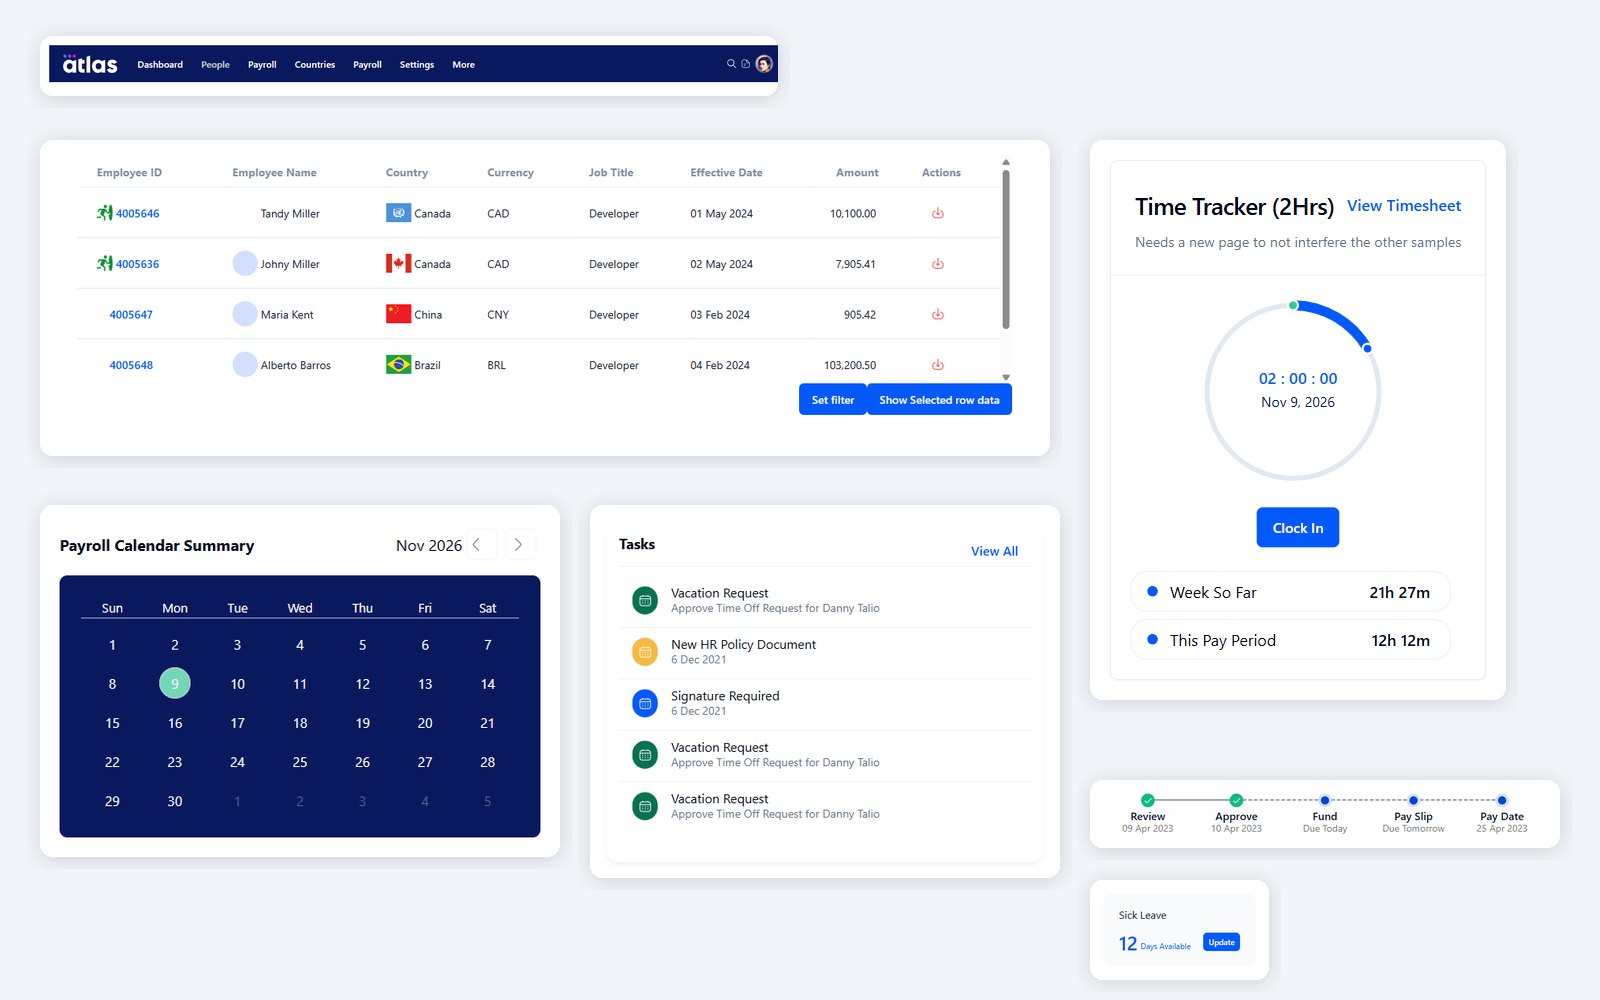
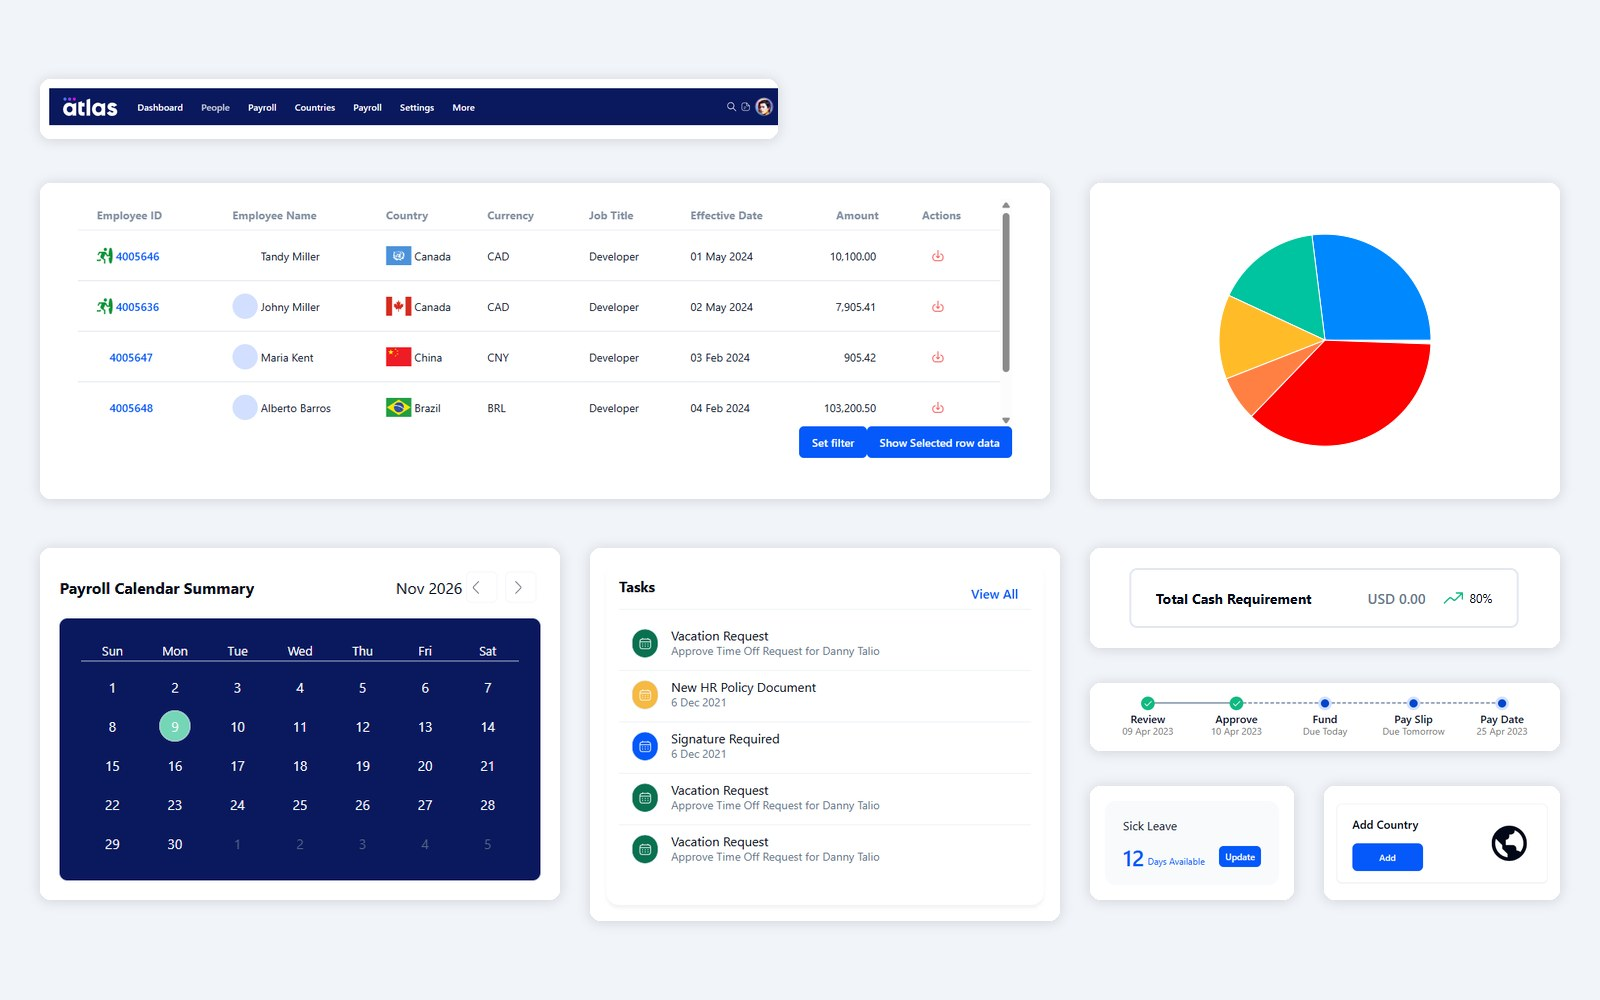
Recompose the Atlas collage without the Storybook note

diff --git a/lib/content.ts b/lib/content.ts
@@ -138,7 +138,7 @@ export const projects: Project[] = [
         src: "/work/atlas-ui-kit.jpg",
         width: 1600,
         height: 1000,
-        alt: "Components from the Atlas UI kit: a top navigation bar, an employee payroll table with countries and currencies, a payroll calendar, a task list, a time tracker and a payroll progress stepper.",
+        alt: "Components from the Atlas UI kit: a top navigation bar, an employee payroll table with countries and currencies, a pie chart, a payroll calendar, a task list, a cash requirement summary, a payroll progress stepper, a leave balance card and an add-country widget.",
         caption: "Components from the Atlas UI kit, rendered from its Storybook.",
       },
     ],

diff --git a/tests/content-guard.spec.ts b/tests/content-guard.spec.ts
@@ -19,6 +19,13 @@ test("no client name or BS CGPA leaks into the site or repo", async ({ request }
   expect(leaks).toEqual([]);
 });
 
+test("published photos carry no EXIF metadata", () => {
+  const photos = trackedFiles.filter((file) => /\.jpe?g$/i.test(file));
+  expect(photos.length).toBeGreaterThan(0);
+  const withExif = photos.filter((file) => readFileSync(file).includes("Exif\0\0"));
+  expect(withExif).toEqual([]);
+});
+
 test("CV download is a PDF", async ({ request }) => {
   const response = await request.get("/cv.pdf");
   expect(response.status()).toBe(200);
